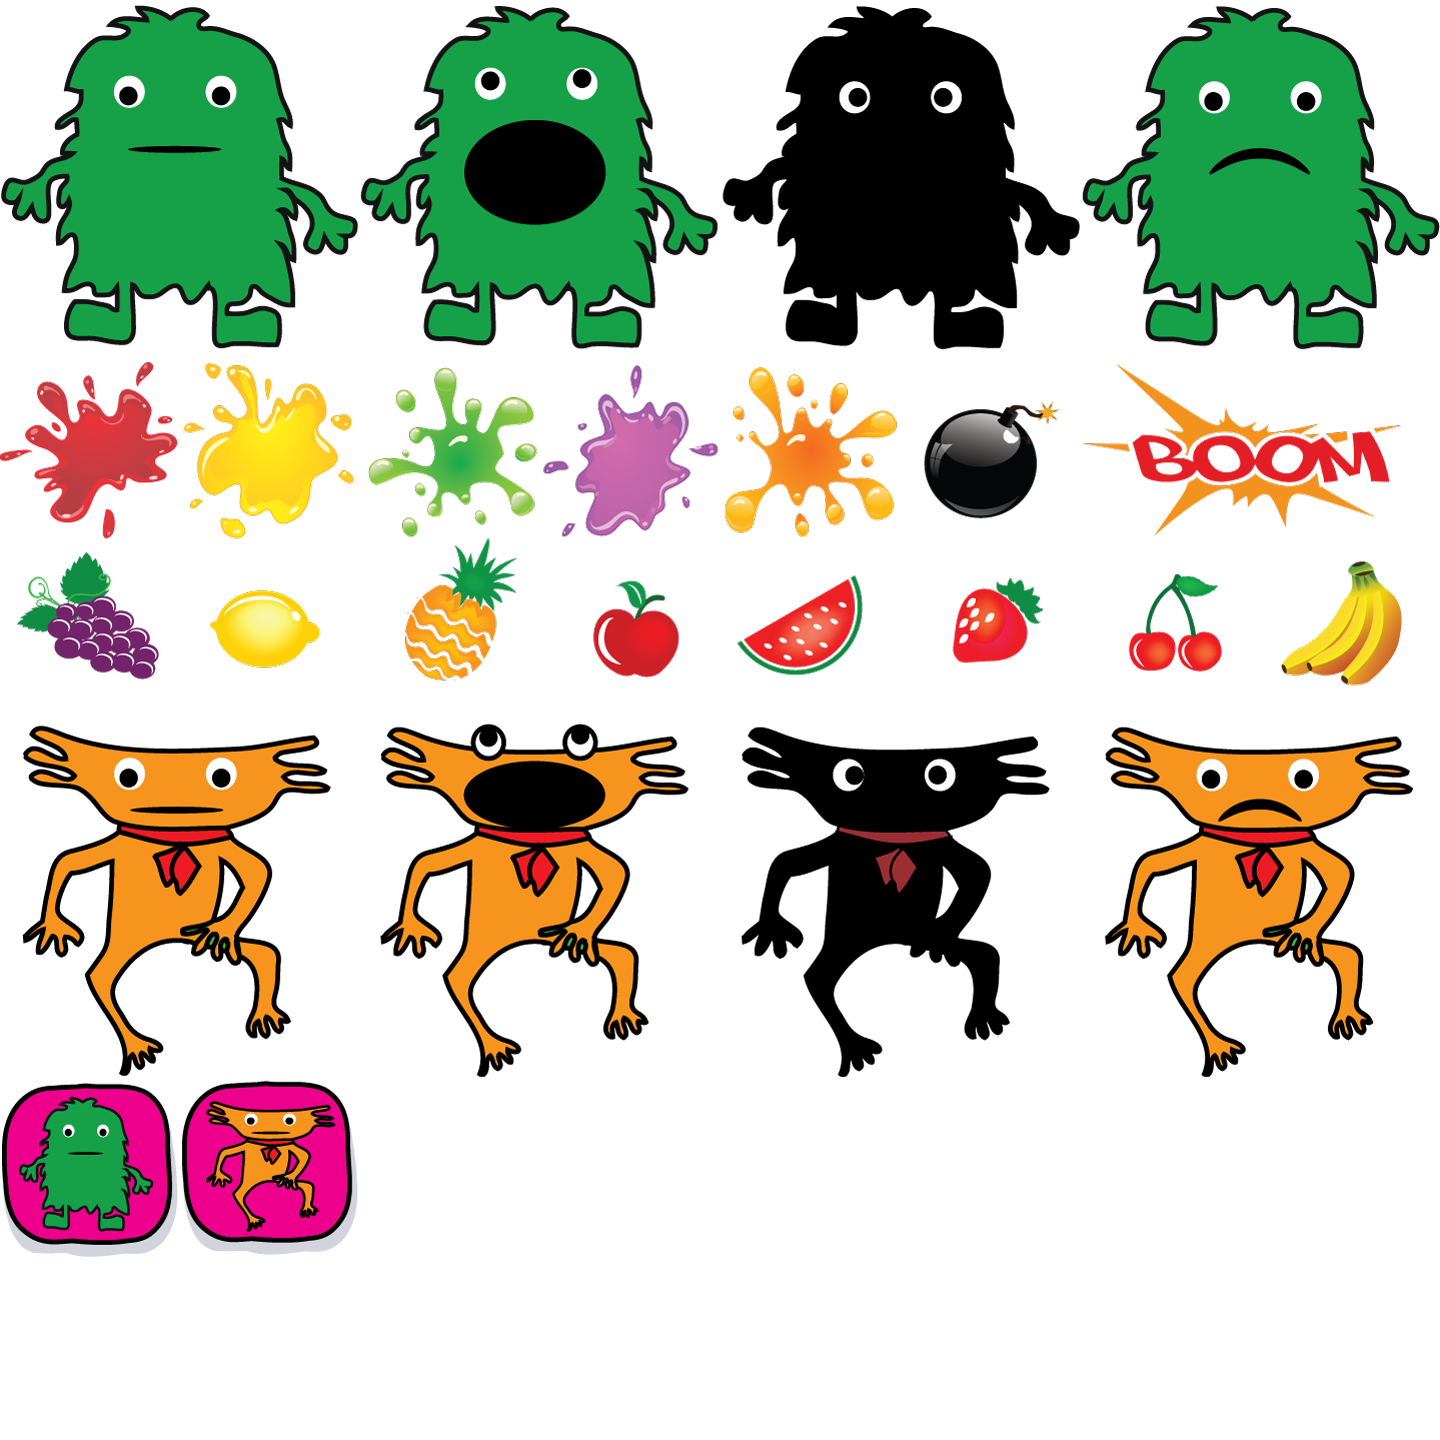
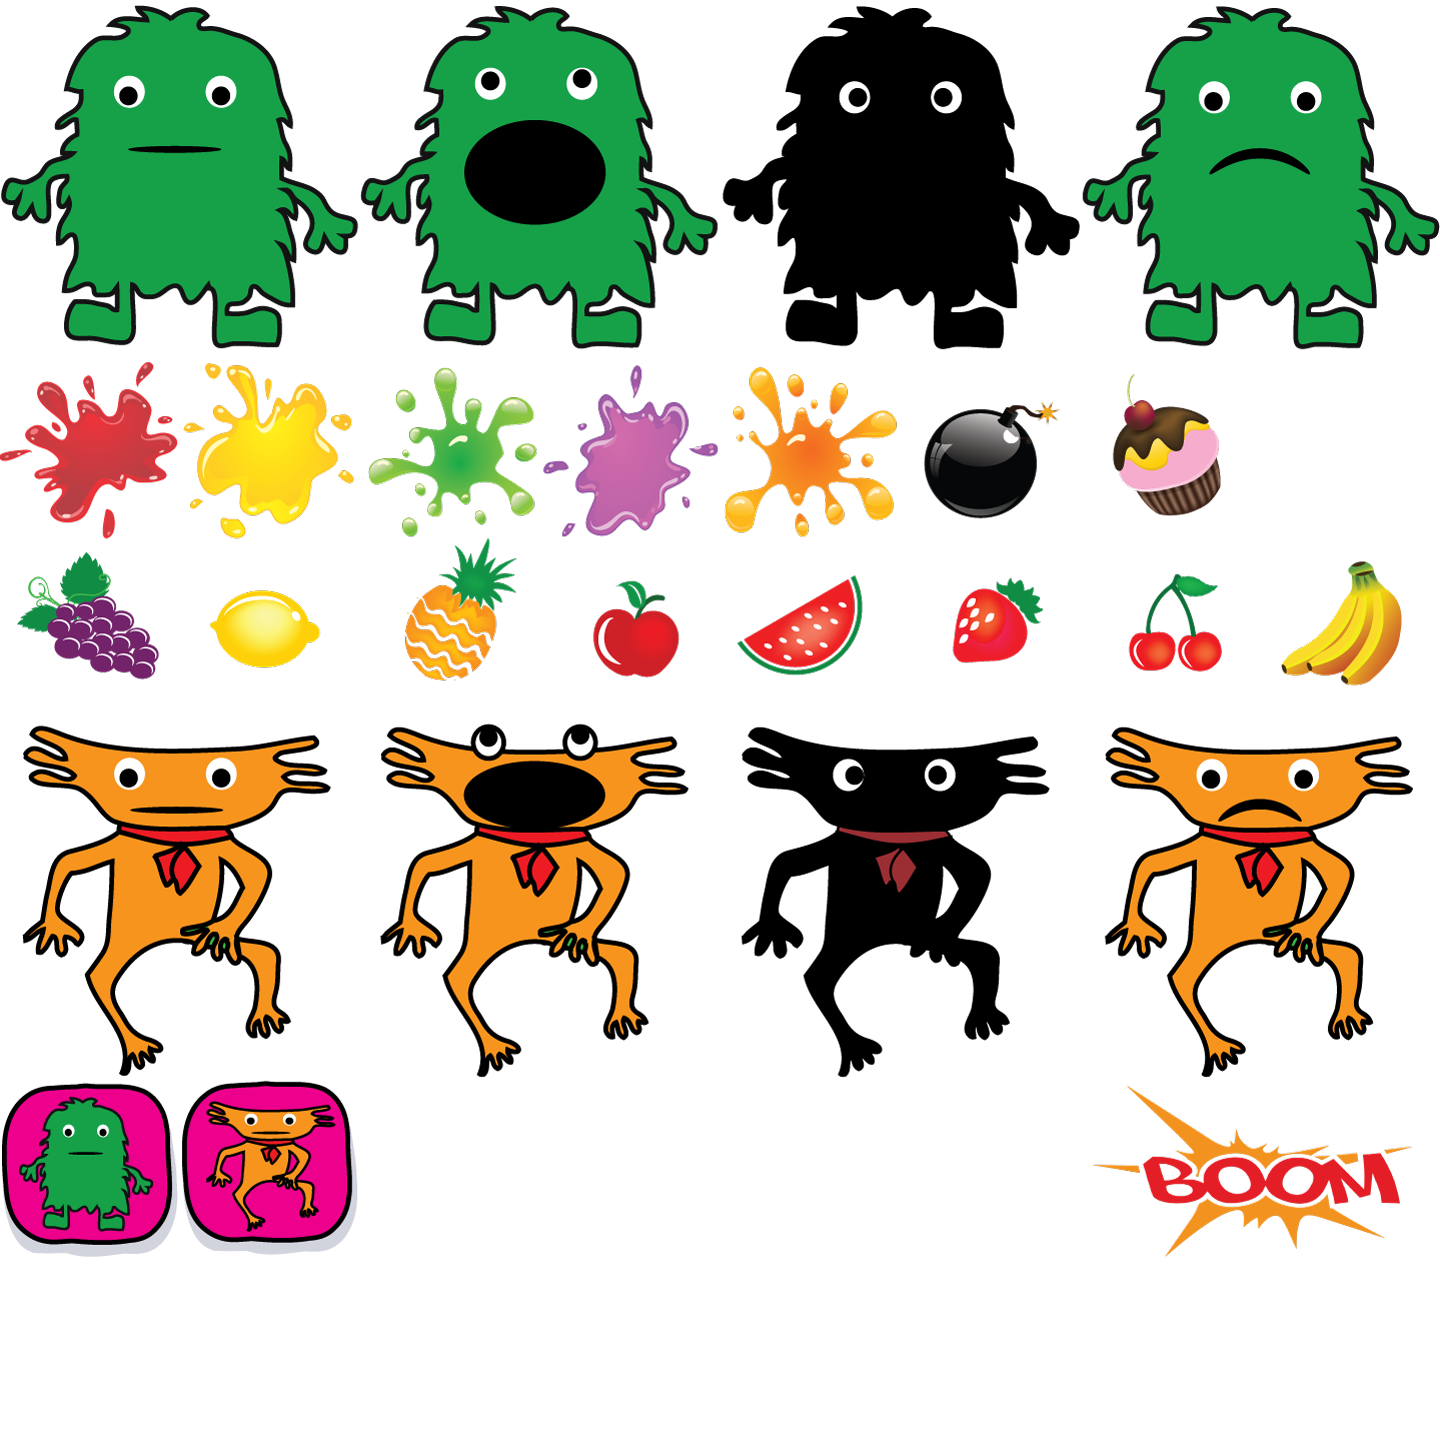
Added cupcake to sprite. Not using yet though.

Changed region(s): [[0.75, 0.25, 0.9688, 0.375], [0.7812, 0.75, 0.9688, 0.875]]

diff --git a/js/src/sprite-sheets.js b/js/src/sprite-sheets.js
@@ -41,11 +41,21 @@
     tileColumns: 1,
     tileRows: 1
   }, {
-    id: "boom",
+    id: "cupcake",
     img: "#miam",
     imgUrl: "img/miam.png",
     x: 540,
     y: 180,
+    tileWidth: 90,
+    tileHeight: 90,
+    tileColumns: 1,
+    tileRows: 1
+  }, {
+    id: "boom",
+    img: "#miam",
+    imgUrl: "img/miam.png",
+    x: 540,
+    y: 540,
     tileWidth: 160,
     tileHeight: 90,
     tileColumns: 1,

diff --git a/js/src/ai.js b/js/src/ai.js
@@ -1,7 +1,7 @@
 (function() {
 
 
-  var heuristicNames = ["random", "rain", "sirup", "random", "rainleft", "rainright", "up"];
+  var heuristicNames = ["random", "rain", "sirup", "random", "up"];
   heuristicNames.index = 0;
   heuristicNames.next = function() {
     var index = this.index;
